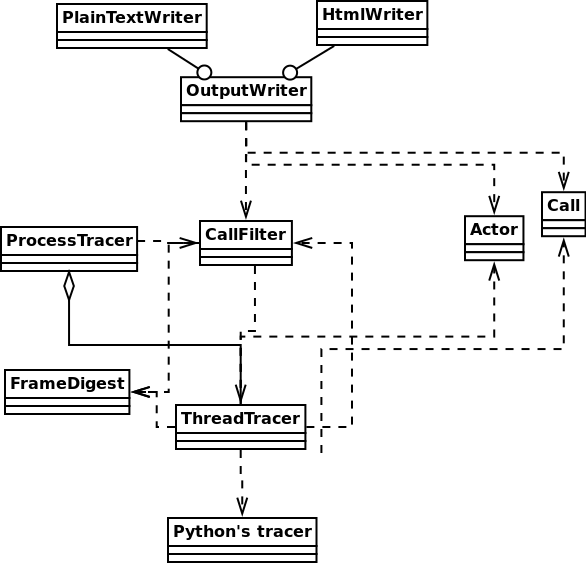
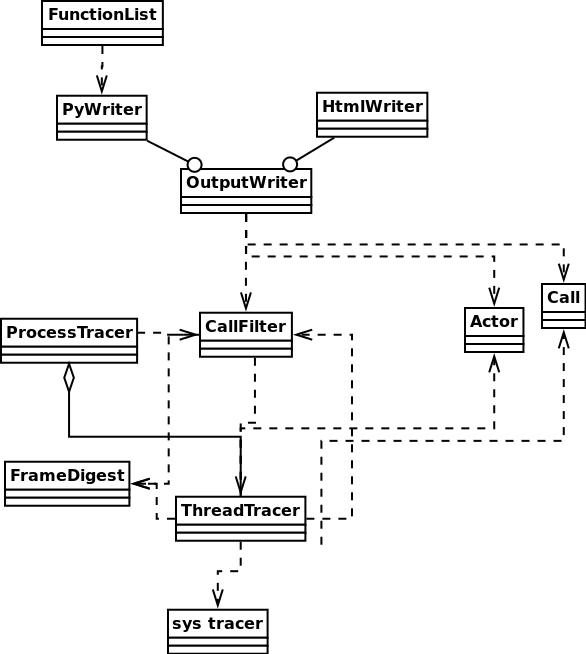
Adding first functional test

diff --git a/functional_test/hello_world/hello_world.py b/functional_test/hello_world/hello_world.py
@@ -1,0 +1,19 @@
+#!/usr/bin/env python
+
+from depict.plain_text import function_list
+
+def say_hi():
+    print 'hello world'
+
+def main():
+    say_hi()
+
+if __name__ == '__main__':
+    function_list.start('out_file')
+    main()
+    function_list.stop()
+
+    expected_output = ['main\n', 'say_hi\n']
+    with open('out_file', 'r') as f:
+        actual_output = f.readlines()
+        assert actual_output == expected_output
